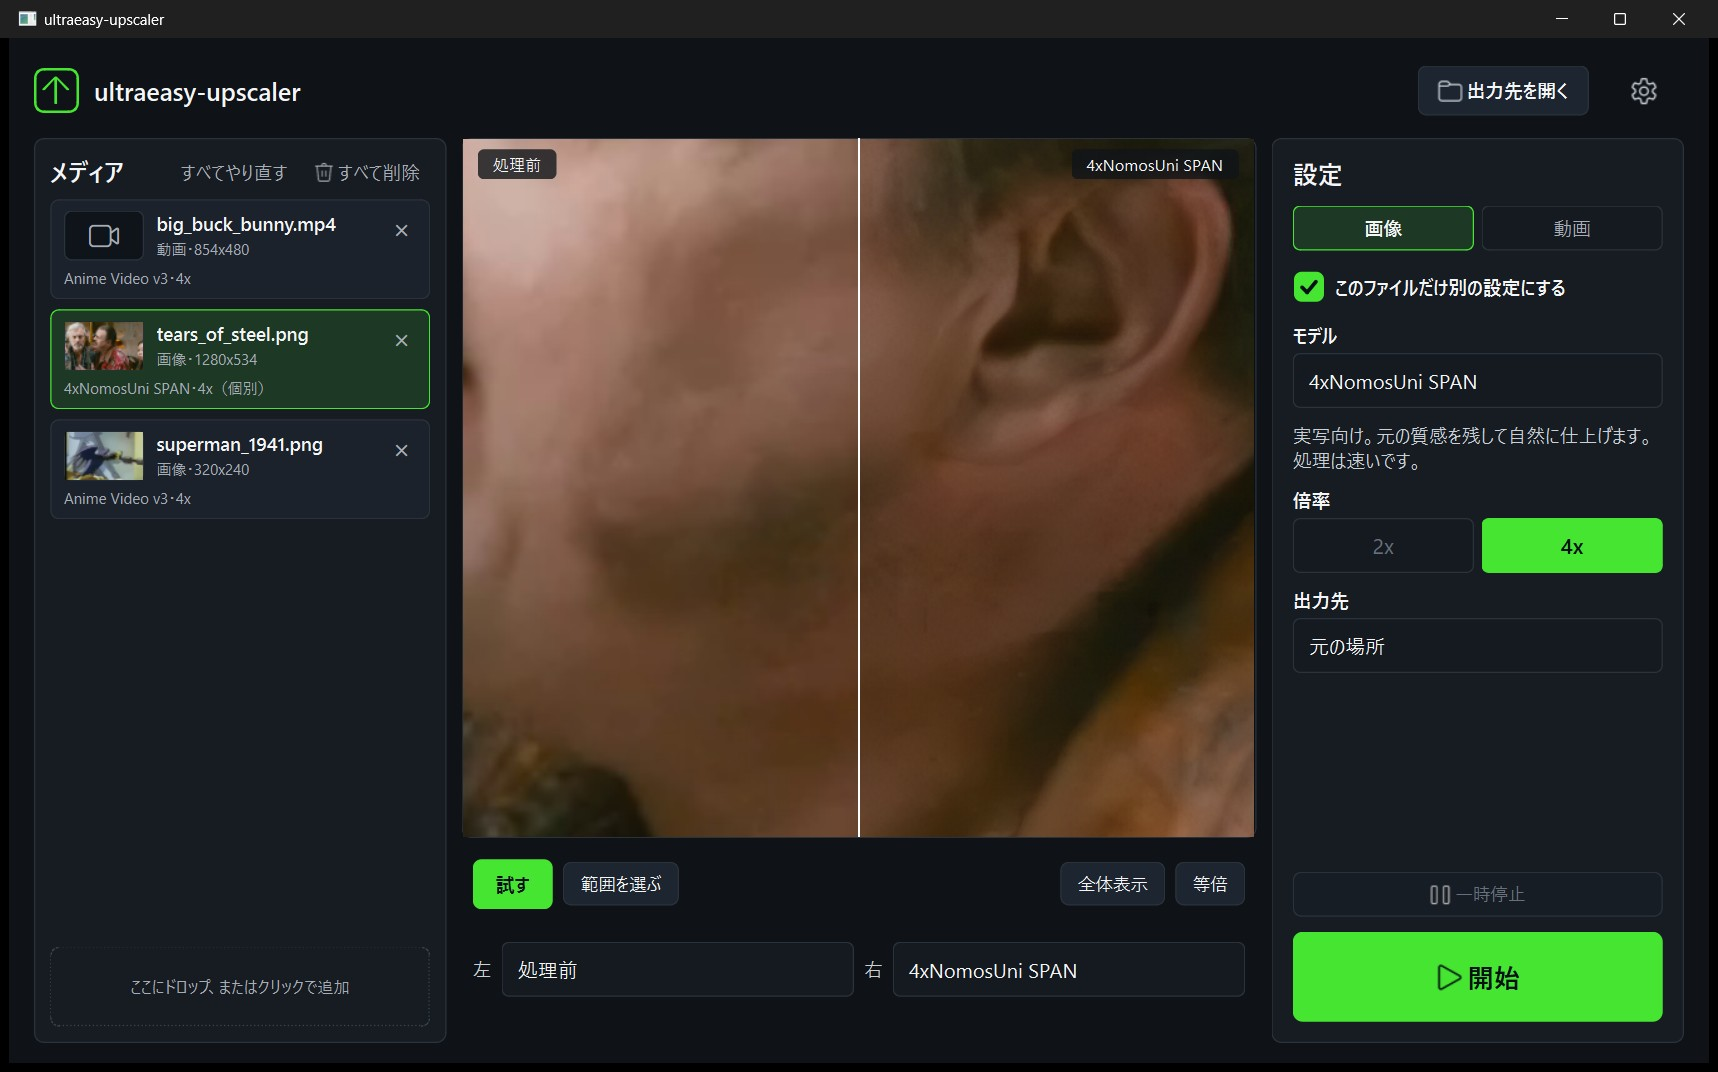
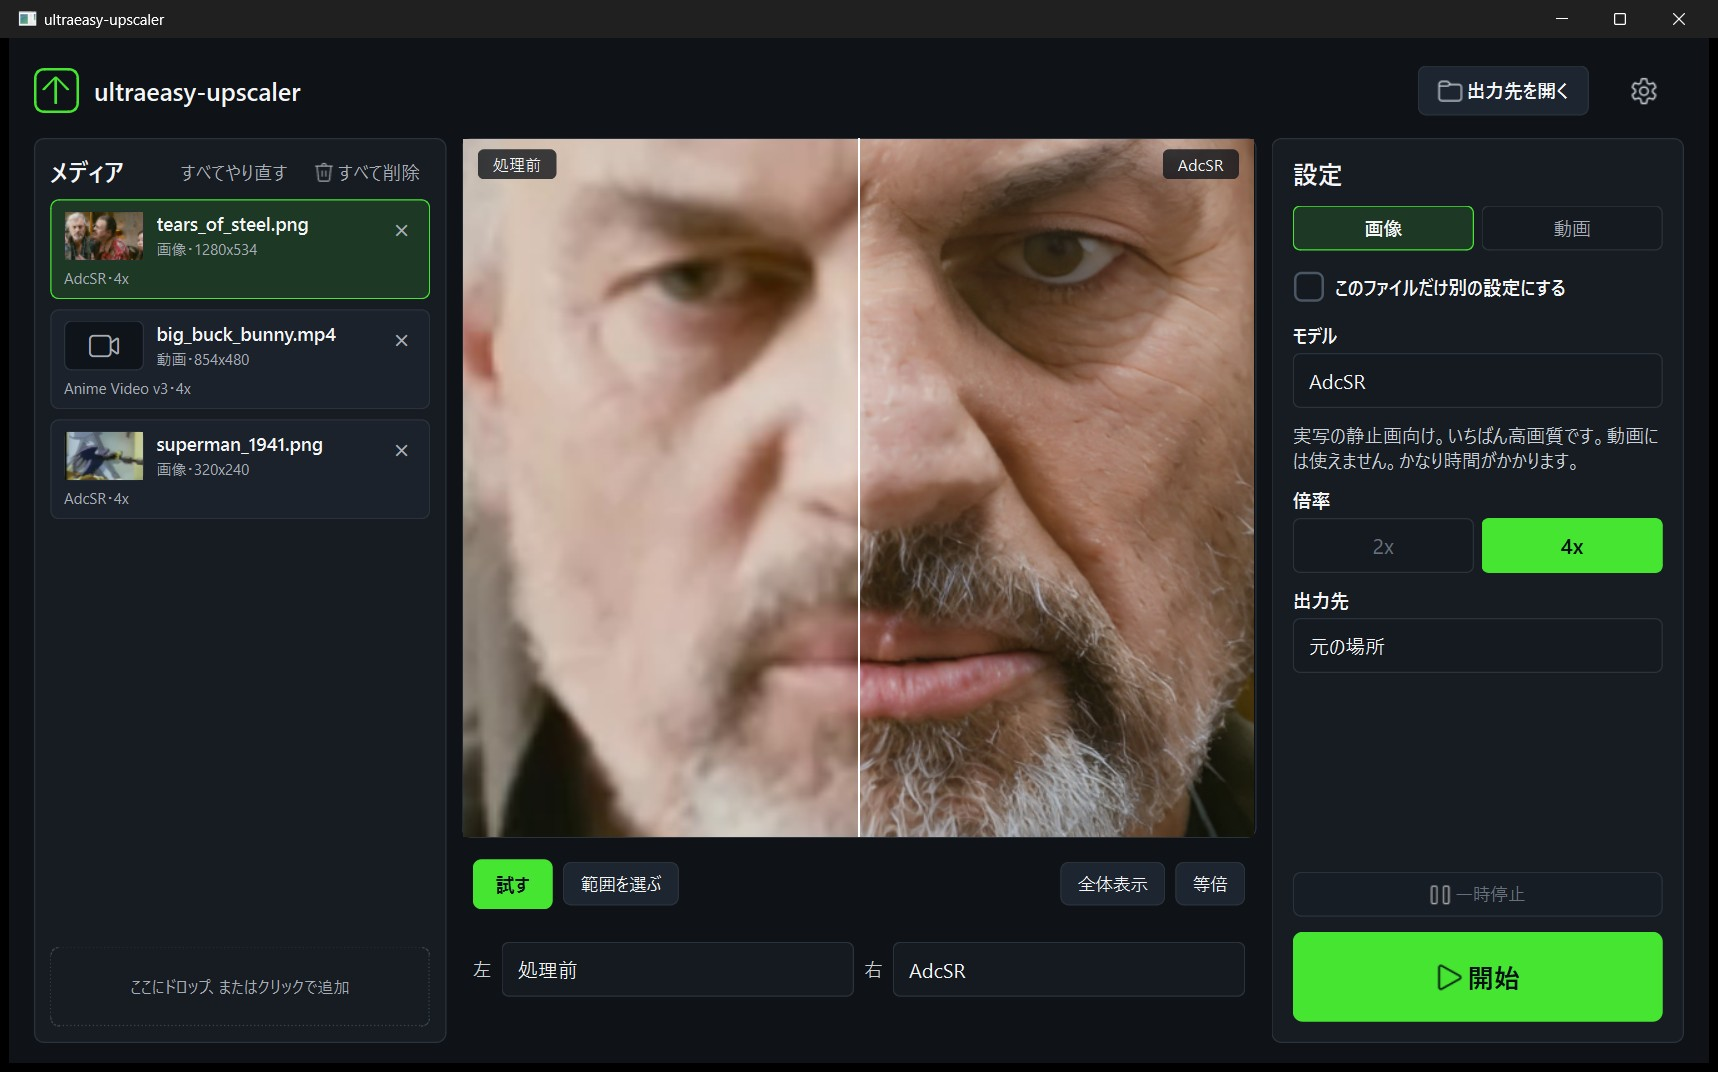
docs: 画質の比較に SwinIR-M と AdcSR を追加、試す画面の写真を AdcSR に差し替え
- 比較画像を 6 枚（3 列 × 2 段）に作り直した。ラベルはアプリの表示名に統一
- scripts/make_model_guide.py: 比較画像をアプリと同じ経路で作り直すスクリプト
- 画面写真: Tears of Steel の写真を AdcSR で試した状態（全体表示と等倍）

diff --git a/scripts/make_model_guide.py b/scripts/make_model_guide.py
@@ -1,0 +1,121 @@
+"""README の「画質の比較」の画像（docs/benchmarks/model_guide_*.png）を作る。
+
+各素材を、アプリと同じ経路（GPU / DirectML）で 5 つのモデルに通し、同じ範囲を切り出して
+オリジナル（Lanczos 4 倍）と並べる。SwinIR-M と AdcSR は 1 枚に数分かかる。
+
+    .venv\\Scripts\\python.exe scripts\\make_model_guide.py --sources <素材のフォルダ>
+
+素材のフォルダには bbb_src.png（Big Buck Bunny, 853x480）、tos_src.png（Tears of Steel, 1280x534）、
+superman_src.png（Superman 1941, 320x240）を置く。拡大結果は --work に残し、あれば再利用する。
+"""
+from __future__ import annotations
+
+import argparse
+import sys
+import time
+from pathlib import Path
+
+from PIL import Image, ImageDraw, ImageFont
+
+ROOT = Path(__file__).resolve().parents[1]
+sys.path.insert(0, str(ROOT))
+
+from app.core import upscaler  # noqa: E402
+from app.core.settings import (  # noqa: E402
+    HELPER_MODEL_ADCSR,
+    HELPER_MODEL_AMD_RRDB,
+    HELPER_MODEL_ANIME,
+    HELPER_MODEL_SPAN,
+    HELPER_MODEL_SWINIR,
+    UpscaleBackend,
+    UpscaleSettings,
+)
+
+# (表示名, モデルキー)。表示名は GUI と同じ。
+MODELS = [
+    ("Anime Video v3", HELPER_MODEL_ANIME),
+    ("4xNomosUni SPAN", HELPER_MODEL_SPAN),
+    ("Real-ESRGAN（AMD縮小版）", HELPER_MODEL_AMD_RRDB),
+    ("SwinIR-M", HELPER_MODEL_SWINIR),
+    ("AdcSR", HELPER_MODEL_ADCSR),
+]
+ORIGINAL_LABEL = "オリジナル（Lanczos で 4 倍・AI なし）"
+
+# 素材ごとの切り出し範囲（元画像の座標: x, y, w, h）。4 倍後に 752x560 になる。
+SOURCES = {
+    "bbb": ("bbb_src.png", (230, 130, 188, 140)),
+    "sup": ("superman_src.png", (110, 70, 188, 140)),
+    "tos": ("tos_src.png", (255, 150, 188, 140)),
+}
+COLUMNS = 3
+LABEL_HEIGHT = 34
+GAP = 4
+BACKGROUND = (20, 20, 20)
+LABEL_COLOR = (235, 235, 235)
+
+
+def _font(size: int) -> ImageFont.FreeTypeFont:
+    for name in ("YuGothM.ttc", "meiryo.ttc", "msgothic.ttc"):
+        path = Path("C:/Windows/Fonts") / name
+        if path.is_file():
+            return ImageFont.truetype(str(path), size)
+    return ImageFont.load_default()
+
+
+def _upscaled(src: Path, model_key: str, work: Path) -> Path:
+    out = work / f"{src.stem}_{model_key}.png"
+    if out.is_file():
+        return out
+    settings = UpscaleSettings(backend=UpscaleBackend.WINML_GPU, model=model_key, scale=4)
+    started = time.monotonic()
+    upscaler.upscale_image(str(src), str(out), settings)
+    print(f"{out.name}: {time.monotonic() - started:.0f} 秒", flush=True)
+    return out
+
+
+def make_sheet(name: str, sources: Path, work: Path, dest: Path) -> None:
+    filename, (x, y, w, h) = SOURCES[name]
+    src = sources / filename
+    box = (x * 4, y * 4, (x + w) * 4, (y + h) * 4)
+    with Image.open(src) as im:
+        original = im.convert("RGB").resize((im.width * 4, im.height * 4), Image.LANCZOS)
+    tiles = [(ORIGINAL_LABEL, original.crop(box))]
+    for label, key in MODELS:
+        with Image.open(_upscaled(src, key, work)) as im:
+            tiles.append((label, im.convert("RGB").crop(box)))
+
+    tile_w, tile_h = tiles[0][1].size
+    rows = -(-len(tiles) // COLUMNS)
+    sheet = Image.new(
+        "RGB",
+        (COLUMNS * tile_w + (COLUMNS - 1) * GAP, rows * (LABEL_HEIGHT + tile_h) + (rows - 1) * GAP),
+        BACKGROUND,
+    )
+    draw = ImageDraw.Draw(sheet)
+    font = _font(20)
+    for index, (label, tile) in enumerate(tiles):
+        left = (index % COLUMNS) * (tile_w + GAP)
+        top = (index // COLUMNS) * (LABEL_HEIGHT + tile_h + GAP)
+        draw.text((left + 10, top + 5), label, font=font, fill=LABEL_COLOR)
+        sheet.paste(tile, (left, top + LABEL_HEIGHT))
+    dest.mkdir(parents=True, exist_ok=True)
+    out = dest / f"model_guide_{name}.png"
+    sheet.save(out, optimize=True)
+    print(f"{out} {sheet.size}", flush=True)
+
+
+def main() -> int:
+    parser = argparse.ArgumentParser(description=__doc__.splitlines()[0])
+    parser.add_argument("--sources", type=Path, required=True)
+    parser.add_argument("--work", type=Path, default=ROOT / "tmp" / "model-guide")
+    parser.add_argument("--dest", type=Path, default=ROOT / "docs" / "benchmarks")
+    parser.add_argument("--only", choices=sorted(SOURCES), nargs="*")
+    args = parser.parse_args()
+    args.work.mkdir(parents=True, exist_ok=True)
+    for name in args.only or sorted(SOURCES):
+        make_sheet(name, args.sources, args.work, args.dest)
+    return 0
+
+
+if __name__ == "__main__":
+    raise SystemExit(main())
